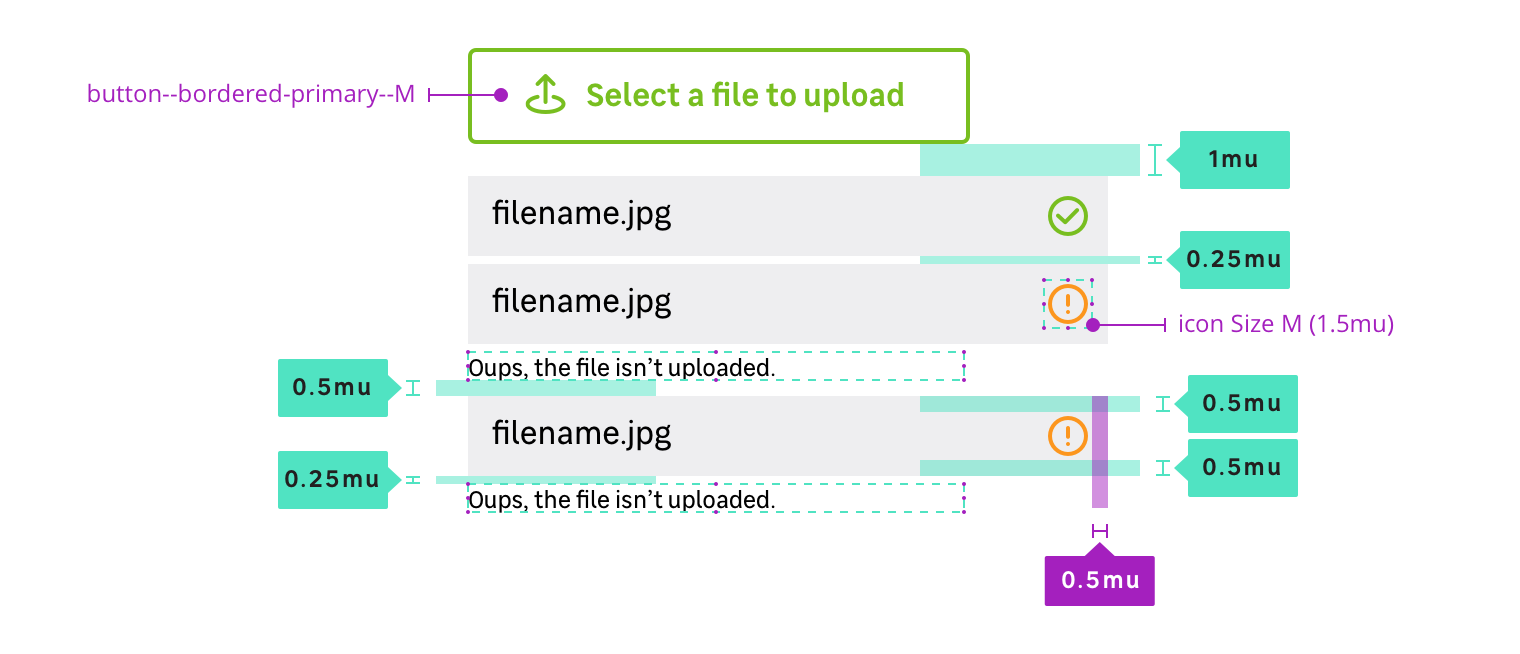
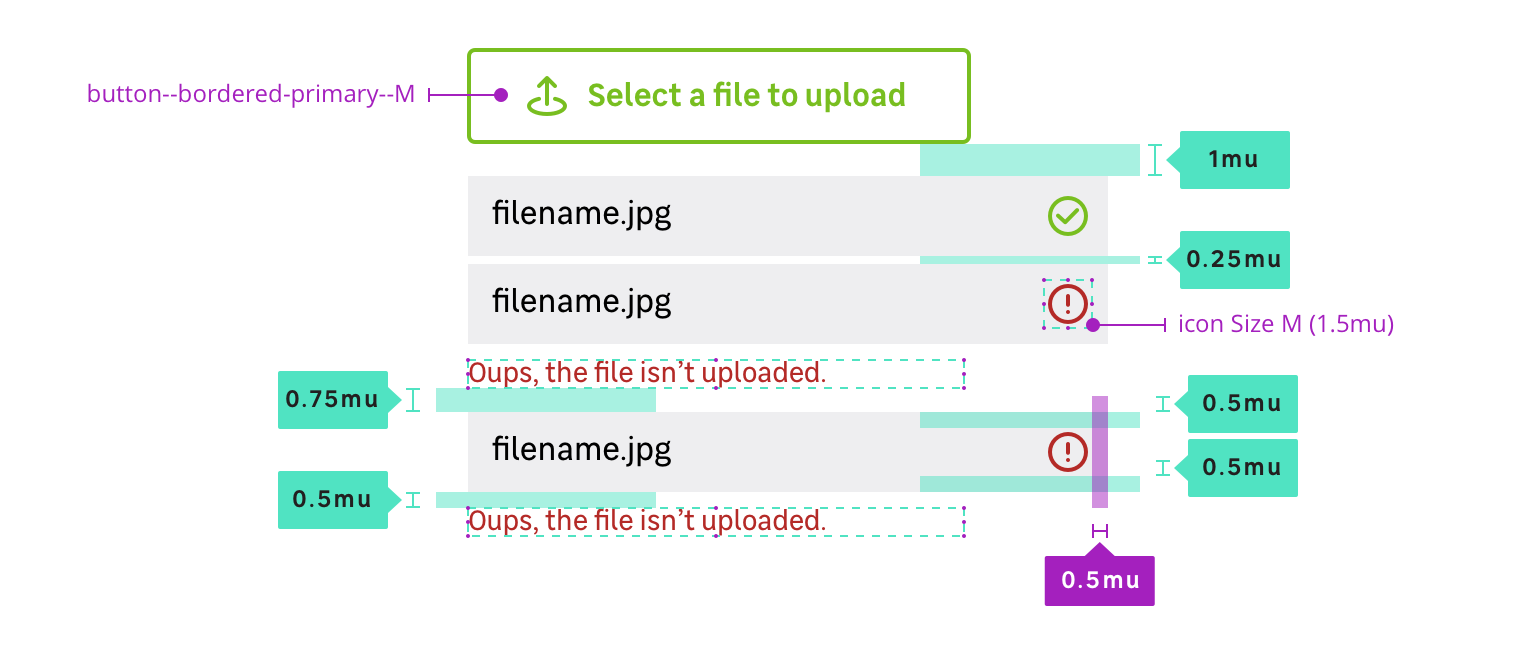
fix(patterns/fileuploader): improve documentation

diff --git a/src/docs/Components/Form/FileUploader/previews/uploaded-files-with-errors.preview.html b/src/docs/Components/Form/FileUploader/previews/uploaded-files-with-errors.preview.html
@@ -17,7 +17,7 @@
         <span class="mc-fileuploader__file-icon"></span>
         <button type="button" class="mc-fileuploader__delete"></button>
         <div class="mc-fileuploader__file-message">
-          Oops, the file is not uploaded
+          Oops, the file is not uploaded.
         </div>
       </li>
     </ul>
